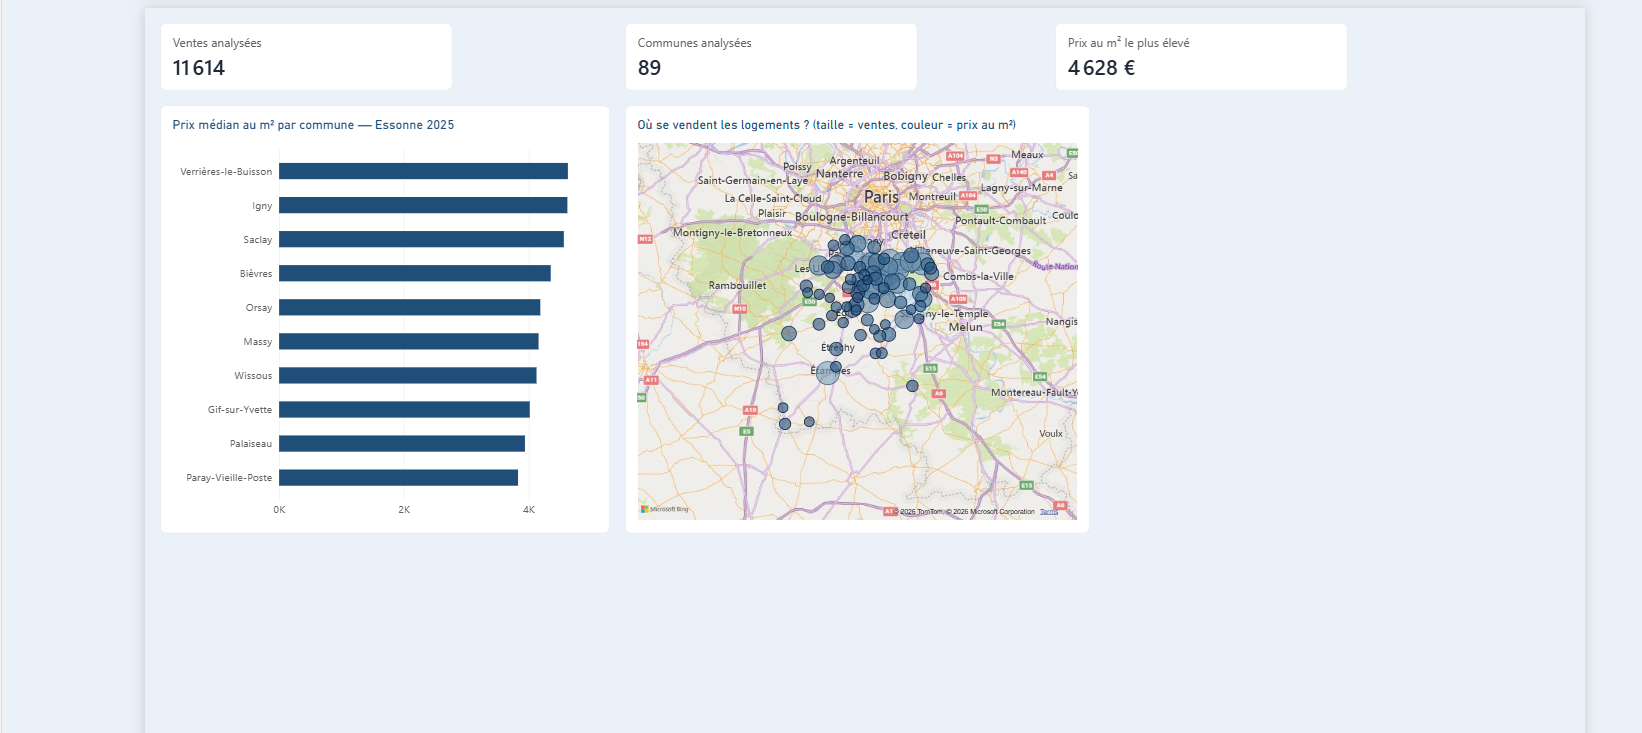
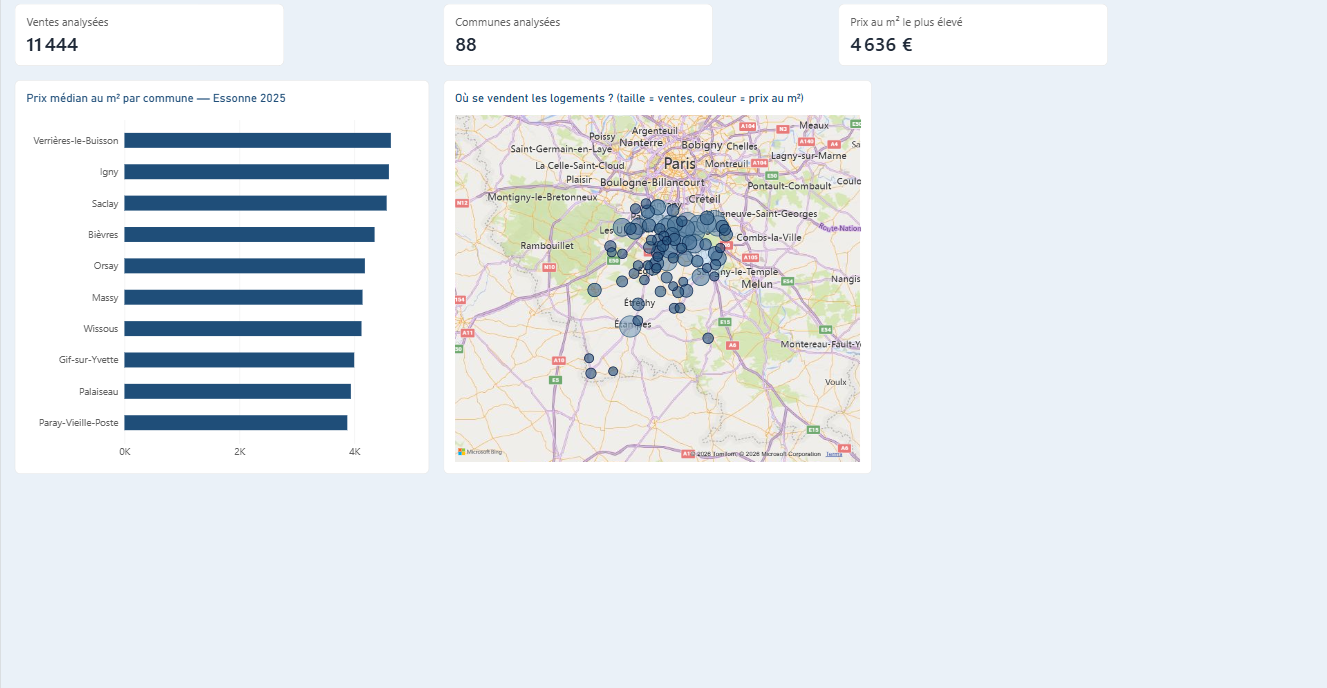
Prix au m² : exclusion des ventes mixtes et multi-communes
- correction.sql / export.sql : une ligne par vente (GROUP BY id_mutation),
  exclusion des ventes incluant un local commercial (132) et des ventes
  portant sur plusieurs communes (27)
- CSV regénéré : 11 444 ventes, 88 communes (Fontenay-lès-Briis passe sous 30 ventes)
- README, tableau de bord Power BI et capture mis à jour
  (Verrières-le-Buisson 4 636 €/m², Igny 4 602 €/m²)

Changed region(s): [[0.0309, 0.0, 0.6797, 0.7326], [0.6179, 0.0, 0.8342, 0.1221]]

diff --git a/README.md b/README.md
@@ -14,14 +14,16 @@ Analyse du marché immobilier de l'Essonne (91) à partir des données publiques
 1. **Ingestion** du fichier officiel DVF 2025 de l'Essonne
 2. **Contrôles qualité** : couverture temporelle, structure des données, valeurs aberrantes
 3. **Correction d'un biais** : certaines ventes regroupent des dizaines de logements
-   (ex. 2 ventes de 80 logements à Igny), ce qui gonflait le prix au m² (12 497 €/m² au lieu de 4 620 €/m²).
+   (ex. 2 ventes de 80 logements à Igny), ce qui gonflait le prix au m² (12 497 €/m² au lieu de 4 602 €/m²).
    Correction avec une CTE : une ligne par vente, ventes d'un seul logement uniquement.
+   Sont aussi exclues les ventes mixtes (logement + local commercial, dont le prix couvre les deux)
+   et les ventes portant sur plusieurs communes.
 4. **Export** des résultats en CSV et **visualisation** dans Power BI
 
 ## Principaux résultats (2025)
 - 43 662 lignes, mais **17 625 ventes réelles** : une vente peut occuper plusieurs lignes
-- **11 614 ventes** d'un seul logement analysées dans **89 communes** (au moins 30 ventes chacune)
-- Prix médian au m² le plus élevé : **Verrières-le-Buisson (4 628 €/m²)**, suivie d'Igny, Saclay et Bièvres
+- **11 444 ventes** d'un seul logement analysées dans **88 communes** (au moins 30 ventes chacune)
+- Prix médian au m² le plus élevé : **Verrières-le-Buisson (4 636 €/m²)**, suivie d'Igny, Saclay et Bièvres
 - Les communes les plus chères sont au nord du département, près de Paris et du plateau de Saclay
 
 ## Fichiers du projet
